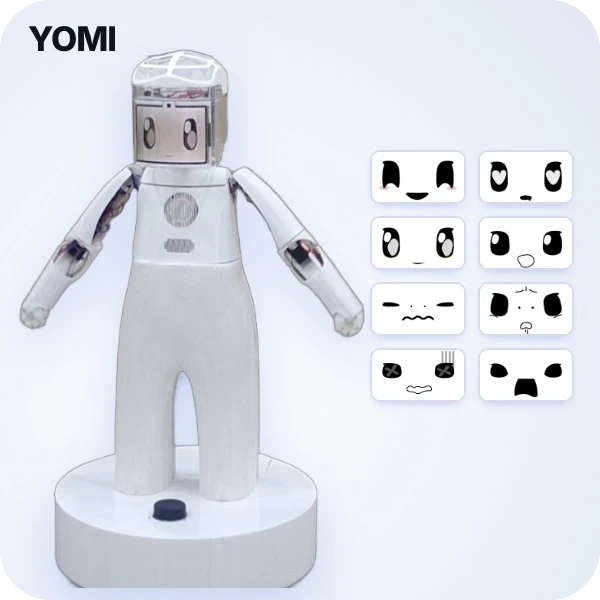
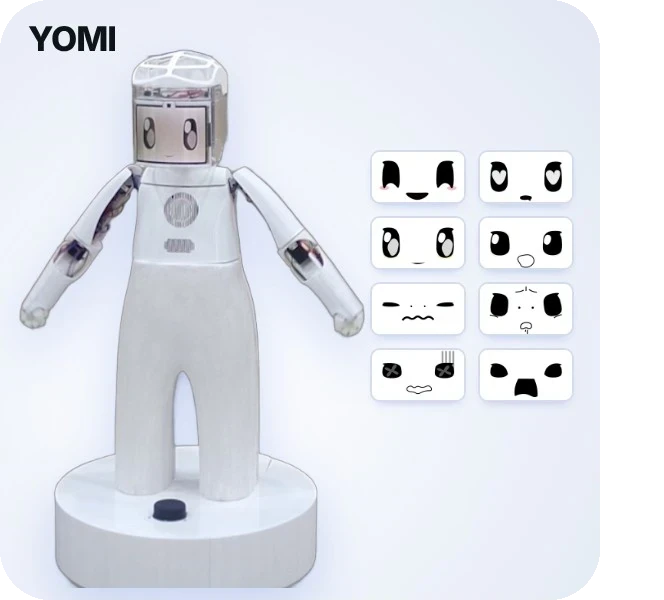
Space YOMI thumbnail like publications and unlink title

diff --git a/README.md b/README.md
@@ -22,8 +22,8 @@ M.S. student at [ISPL](https://dauispl.quv.kr/), Dong-A University (advisor: Pro
 
 <!-- PROJECTS:START -->
 <div>
-<a href="https://hyeonbinpark1206.github.io/YOMI/"><img src="assets/yomi-thumb.webp" width="120" align="left" alt="YOMI robot and its 8 facial expressions"></a>
-<b><a href="https://hyeonbinpark1206.github.io/YOMI/">YOMI — Humanoid Robot for Pre-service Kindergarten Teachers</a></b><br>
+<a href="https://hyeonbinpark1206.github.io/YOMI/"><img src="assets/yomi-thumb.webp" width="133" align="left" alt="YOMI robot and its 8 facial expressions"></a>
+<b>YOMI — Humanoid Robot for Pre-service Kindergarten Teachers</b><br>
 <sub>Undergraduate capstone · 2025 · Team lead · <a href="https://hyeonbinpark1206.github.io/YOMI/">Project Page</a> · <a href="https://github.com/HyeonbinPark1206/4IU_RobotAI">Code</a></sub><br>
 <sub>STT · LLM · TTS · vision · touch · motors on one Jetson Orin NX. I built the real-time Korean STT and the ROS integration core.</sub>
 <details><summary><small><small>Awards &amp; Patent</small></small></summary>
